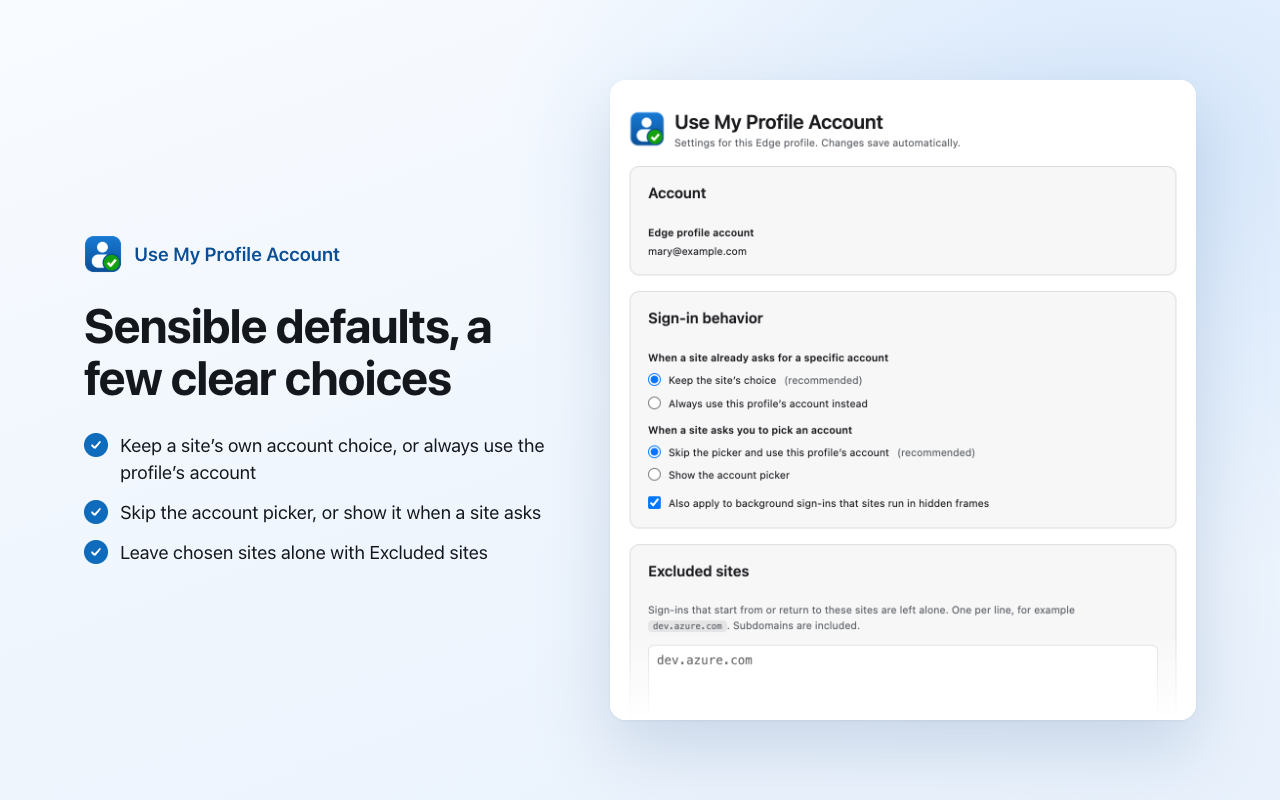
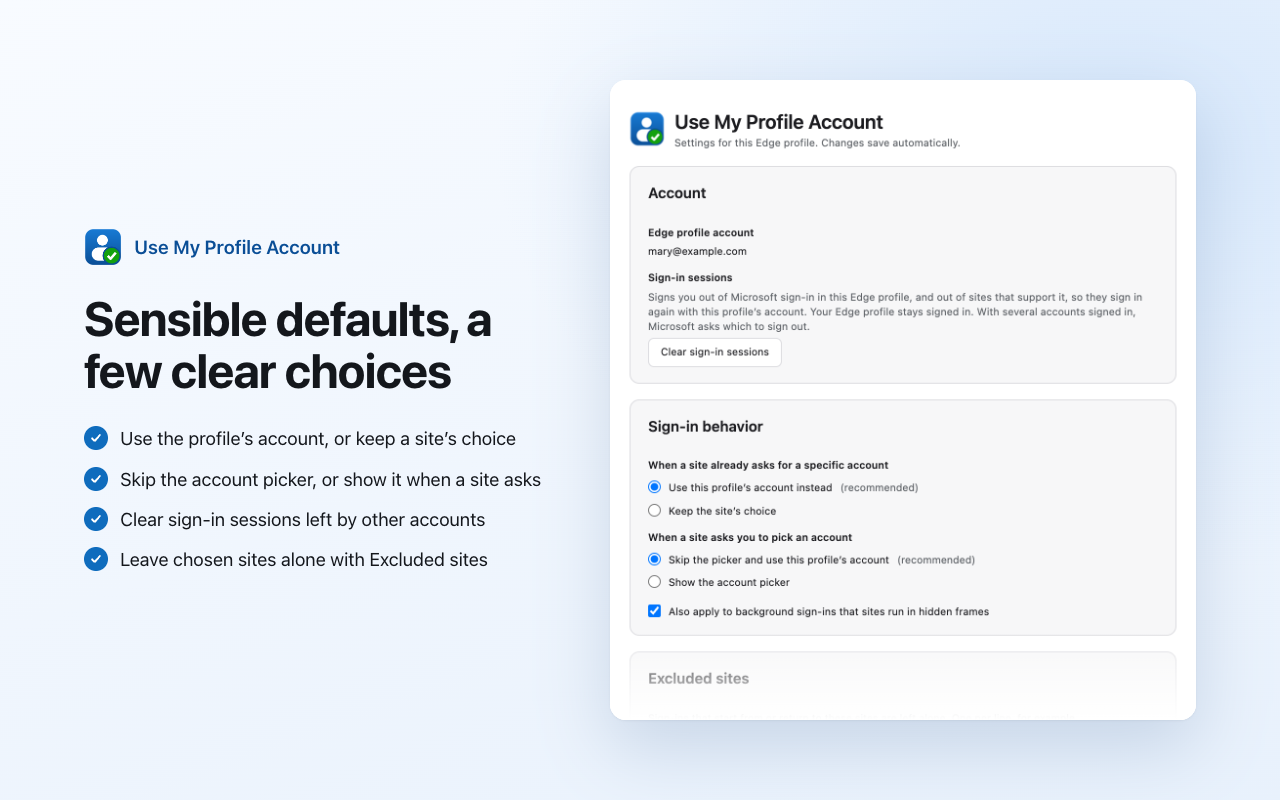
1.1.0: use the profile's account by default, Clear sign-in sessions
- Default "When a site already asks for a specific account" is now "Use this
  profile's account instead" (hintMode always), so a site signed in with
  another account switches back at its next sign-in. Hidden-frame renewals
  and sid/id_token_hint requests still keep the site's choice.
- Replace "Pause 1 hour" with "Clear sign-in sessions" in the popup, and add
  it to Settings. It opens Microsoft's sign-out page
  (/common/oauth2/v2.0/logout); no new permission.
- Edge settings mentioned on the Settings page are now links (opened with
  chrome.tabs.create; the Extensions link goes to this extension's details).
- Docs, policy schema, admin examples and store/README images updated.

diff --git a/tests/rules.test.js b/tests/rules.test.js
@@ -39,8 +39,11 @@ run('v1 tenant authorize gets login_hint', {}, V1, has(HINT));
 run('common endpoint', {}, 'https://login.microsoftonline.com/common/oauth2/v2.0/authorize?client_id=x', has(HINT));
 run('empty login_hint replaced in place (no duplicate)', {}, `${V2}&login_hint=&state=abc`,
   (u) => u === `${V2}&${HINT}&state=abc` && count(u, 'login_hint') === 1);
-run('existing hint kept', {}, `${V2}&login_hint=bob%40example.com`, 'same');
-run('existing username kept', {}, `${V2}&username=bob%40example.com`, 'same');
+check('default is to use the profile account', DEFAULTS.hintMode === 'always');
+run('default replaces a site hint for another account', {}, `${V2}&login_hint=bob%40example.com`,
+  (u) => u === `${V2}&${HINT}`);
+run('keep mode: existing hint kept', { hintMode: 'missing' }, `${V2}&login_hint=bob%40example.com`, 'same');
+run('keep mode: existing username kept', { hintMode: 'missing' }, `${V2}&username=bob%40example.com`, 'same');
 run('always mode replaces other hint', { hintMode: 'always' }, `${V2}&login_hint=bob%40example.com`,
   (u) => u.includes(HINT) && !u.includes('bob') && count(u, 'login_hint') === 1);
 run('always mode, already ours: no redirect', { hintMode: 'always' }, `${V2}&${HINT}`, 'same');
@@ -51,7 +54,7 @@ run('sid kept in always mode', { hintMode: 'always' }, `${V2}&sid=abc123`, 'same
 run('id_token_hint kept', {}, `${V2}&id_token_hint=eyJ0`, 'same');
 run('encoded login%5Fhint left alone', {}, `${V2}&login%5Fhint=`, 'same');
 run('encoded login%5Fhint left alone (always)', { hintMode: 'always' }, `${V2}&login%5fhint=bob`, 'same');
-run('keys are case-insensitive for the guard', {}, `${V2}&LOGIN_HINT=bob`, 'same');
+run('keep mode: keys are case-insensitive for the guard', { hintMode: 'missing' }, `${V2}&LOGIN_HINT=bob`, 'same');
 run('sign-up (prompt=create) left alone', {}, `${V2}&prompt=create`, 'same');
 run('prompt=login still hinted', {}, `${V2}&prompt=login`, has(HINT, 'prompt=login'));
 run('prompt=none (silent) hinted', {}, `${V2}&prompt=none`, has(HINT, 'prompt=none'));
@@ -62,7 +65,7 @@ run('select_account removed and hinted', {}, OWA,
   (u) => u === `https://login.microsoftonline.com/common/oauth2/v2.0/authorize?client_id=9199bf20&state=x&${HINT}`);
 run('select_account as last param', {}, `${V2}&prompt=select_account`, (u) => u === `${V2}&${HINT}`);
 run('select_account kept when set to show picker', { accountPicker: 'site' }, OWA, 'same');
-run('select_account with site hint kept', {}, `${OWA}&login_hint=bob%40example.com`, 'same');
+run('keep mode: select_account with site hint kept', { hintMode: 'missing' }, `${OWA}&login_hint=bob%40example.com`, 'same');
 run('select_account + empty hint', {}, `${OWA}&login_hint=`, (u) => !u.includes('prompt=') && count(u, 'login_hint') === 1 && u.includes(HINT));
 run('select_account in always mode', { hintMode: 'always' }, `${OWA}&login_hint=bob`, (u) => !u.includes('prompt=') && u.includes(HINT) && !u.includes('bob'));
 run('other prompt value untouched', {}, `${V2}&prompt=consent`, has(HINT, 'prompt=consent'));
@@ -111,7 +114,9 @@ run('always mode keeps an app username in hidden frames', { hintMode: 'always' }
 const SAML = 'https://login.microsoftonline.com/0c8f0000-aaaa-bbbb-cccc-000000000000/saml2';
 run('SAML redirect binding', {}, `${SAML}?SAMLRequest=fZJb&RelayState=x`, has(HINT, 'SAMLRequest=fZJb'));
 run('SAML POST binding gets query', {}, SAML, (u) => u === `${SAML}?${HINT}`, { method: 'post' });
-run('WS-Fed with hint kept', {}, `https://login.microsoftonline.com/common/wsfed?wa=wsignin1.0&login_hint=bob`, 'same');
+run('keep mode: WS-Fed with hint kept', { hintMode: 'missing' }, `https://login.microsoftonline.com/common/wsfed?wa=wsignin1.0&login_hint=bob`, 'same');
+run('default: WS-Fed hint replaced', {}, `https://login.microsoftonline.com/common/wsfed?wa=wsignin1.0&login_hint=bob`,
+  (u) => u.includes(HINT) && !u.includes('bob') && count(u, 'login_hint') === 1);
 
 run('other clouds untouched', {}, 'https://login.microsoftonline.us/common/oauth2/v2.0/authorize?client_id=x', 'same');
 
@@ -147,7 +152,7 @@ run('not excluded: longer TLD', EX, withRedirect('https://dev.azure.company/'), 
 }
 
 // --- Rule shape (an invalid rule rejects the whole update) ---
-for (const settings of [{}, { hintMode: 'always', accountPicker: 'site', includeFrames: false }, EX,
+for (const settings of [{}, { hintMode: 'missing', accountPicker: 'site', includeFrames: false }, { ...EX, hintMode: 'missing' },
   { ...EX, hintMode: 'always', accountPicker: 'site' }]) {
   const rules = rulesFor(settings);
   const ids = rules.map((r) => r.id);

diff --git a/src/options.html b/src/options.html
@@ -24,14 +24,19 @@
       <span class="label">Edge profile account</span>
       <span id="profileEmail">–</span>
     </div>
+    <div class="field">
+      <span class="label">Sign-in sessions</span>
+      <p class="muted">Signs you out of Microsoft sign-in in this Edge profile, and out of sites that support it, so they sign in again with this profile’s account. Your Edge profile stays signed in. With several accounts signed in, Microsoft asks which to sign out.</p>
+      <div><button id="clearSessions">Clear sign-in sessions</button></div>
+    </div>
   </section>
 
   <section class="card">
     <h2>Sign-in behavior</h2>
     <fieldset id="hintMode">
       <legend>When a site already asks for a specific account</legend>
-      <label class="choice"><input type="radio" name="hintMode" value="missing"> Keep the site’s choice <span class="muted">(recommended)</span></label>
-      <label class="choice"><input type="radio" name="hintMode" value="always"> Always use this profile’s account instead</label>
+      <label class="choice"><input type="radio" name="hintMode" value="always"> Use this profile’s account instead <span class="muted">(recommended)</span></label>
+      <label class="choice"><input type="radio" name="hintMode" value="missing"> Keep the site’s choice</label>
     </fieldset>
     <fieldset id="accountPicker">
       <legend>When a site asks you to pick an account</legend>
@@ -51,10 +56,10 @@
   <section class="card">
     <h2>Other settings that affect sign-in</h2>
     <ul class="tips">
-      <li><strong>Sign in to this Edge profile</strong> with your work or school account (Settings › Profiles). That’s the account this extension uses. It only chooses the account, so you may still be asked for a password or MFA.</li>
-      <li><strong>Which profile a site opens in.</strong> Automatic profile switching (Settings › Profiles), and <em>Profile preferences for sites</em> and <em>Default profile for external links</em> (Settings › Profiles › Profile preferences), can open a site in another profile. It then signs in with that profile’s account.</li>
+      <li><strong>Sign in to this Edge profile</strong> with your work or school account (<a href="edge://settings/profiles">Settings › Profiles</a>). That’s the account this extension uses. It only chooses the account, so you may still be asked for a password or MFA.</li>
+      <li><strong>Which profile a site opens in.</strong> Automatic profile switching (<a href="edge://settings/profiles">Settings › Profiles</a>), and <em>Profile preferences for sites</em> and <em>Default profile for external links</em> (<a href="edge://settings/profiles/multiProfileSettings">Settings › Profiles › Profile preferences</a>), can open a site in another profile. It then signs in with that profile’s account.</li>
       <li>You don’t need to add this account to Windows (Settings › Accounts › Access work or school) for this extension. Doing that registers this PC with the account’s organization and can enroll it in their device management.</li>
-      <li><strong>Site access</strong> (<code>edge://extensions</code> › Details) must allow Microsoft’s sign-in pages. The extension never runs in InPrivate windows.</li>
+      <li><strong>Site access</strong> (<a id="extensionDetails" href="edge://extensions">Extensions › Details</a>) must allow Microsoft’s sign-in pages. The extension never runs in InPrivate windows.</li>
     </ul>
   </section>
 </body>

diff --git a/src/popup.js b/src/popup.js
@@ -1,4 +1,4 @@
-import { describe } from './settings.js';
+import { describe, clearSignInSessions } from './settings.js';
 
 const $ = (id) => document.getElementById(id);
 let status = {};
@@ -15,19 +15,17 @@ async function render() {
   $('grant').hidden = status.state !== 'active' || status.hasAccess;
   $('enabled').checked = status.enabled ?? true;
   $('enabled').disabled = managed.includes('enabled');
-  $('pause').hidden = !status.allowPause || !['active', 'paused'].includes(status.state);
-  $('pauseHint').hidden = $('pause').hidden || paused;
-  for (const b of document.querySelectorAll('[data-minutes]')) b.hidden = paused;
+  const canPause = status.allowPause && ['active', 'paused'].includes(status.state);
+  $('pause').hidden = !canPause || paused;
+  $('pauseHint').hidden = !canPause || paused;
   $('resume').hidden = !paused;
   $('managed').hidden = !managed.length;
 }
 
 $('enabled').addEventListener('change', (e) => chrome.storage.local.set({ enabled: e.target.checked }));
-for (const button of document.querySelectorAll('[data-minutes]')) {
-  button.addEventListener('click', () =>
-    chrome.storage.local.set({ pausedUntil: Date.now() + Number(button.dataset.minutes) * 60_000 }));
-}
+$('pause').addEventListener('click', () => chrome.storage.local.set({ pausedUntil: Date.now() + 15 * 60_000 }));
 $('resume').addEventListener('click', () => chrome.storage.local.set({ pausedUntil: 0 }));
+$('clearSessions').addEventListener('click', () => clearSignInSessions().then(() => window.close()));
 $('grant').addEventListener('click', () => chrome.permissions.request({ origins: status.origins }));
 $('settings').addEventListener('click', (e) => {
   e.preventDefault();

diff --git a/src/options.js b/src/options.js
@@ -1,4 +1,4 @@
-import { loadSettings, cleanHosts } from './settings.js';
+import { loadSettings, cleanHosts, clearSignInSessions } from './settings.js';
 
 const $ = (id) => document.getElementById(id);
 const save = (values) => chrome.storage.local.set(values);
@@ -38,6 +38,17 @@ $('excludedSites').addEventListener('change', (e) => {
   $('sitesError').textContent = `Not a site name: ${invalid.join(', ')}`;
   save({ excludedSites: valid });
 });
+
+$('clearSessions').addEventListener('click', clearSignInSessions);
+
+// Pages can't open edge:// addresses from a link, so open them in a new tab.
+$('extensionDetails').href = `edge://extensions/?id=${chrome.runtime.id}`;
+for (const a of document.querySelectorAll('a[href^="edge:"]')) {
+  a.addEventListener('click', (e) => {
+    e.preventDefault();
+    chrome.tabs.create({ url: a.href });
+  });
+}
 
 // 'change' only fires when the list loses focus, so save a half-edited list if the tab is closed.
 addEventListener('pagehide', () => document.activeElement === $('excludedSites') &&

diff --git a/src/settings.js b/src/settings.js
@@ -4,11 +4,16 @@
 
 export const DEFAULTS = {
   enabled: true,
-  hintMode: 'missing',      // missing = only when the site didn't name an account; always = replace it
+  hintMode: 'always',       // always = use this profile's account even if the site named another; missing = keep the site's
   accountPicker: 'skip',    // skip = sign straight in; site = show the picker when the site asks for it
   includeFrames: true,      // also hidden-frame (silent) sign-ins
   excludedSites: [],
 };
+
+// Microsoft's sign-out page. It ends the Microsoft sign-in sessions in this Edge profile and signs out of sites
+// that support single sign-out. Edge's own sign-in to the profile isn't affected.
+export const SIGN_OUT_URL = 'https://login.microsoftonline.com/common/oauth2/v2.0/logout';
+export const clearSignInSessions = () => chrome.tabs.create({ url: SIGN_OUT_URL });
 
 // Only settable by policy.
 const POLICY_DEFAULTS = { allowPause: true, allowedDomains: [] };

diff --git a/src/popup.html b/src/popup.html
@@ -27,10 +27,10 @@
     <input id="enabled" type="checkbox" role="switch">
   </label>
 
-  <div id="pause" class="buttons" hidden>
-    <button data-minutes="15">Pause 15 min</button>
-    <button data-minutes="60">Pause 1 hour</button>
+  <div class="buttons">
+    <button id="pause" hidden>Pause 15 min</button>
     <button id="resume" class="primary" hidden>Resume now</button>
+    <button id="clearSessions" title="Signs you out of Microsoft sign-in in this profile, so sites sign in again with its account. Your Edge profile stays signed in.">Clear sign-in sessions</button>
   </div>
   <p id="pauseHint" class="muted small" hidden>Pause to sign in with a different account.</p>
 

diff --git a/README.md b/README.md
@@ -12,7 +12,7 @@ On an Entra-joined Windows 11 PC where bob@example.com signs in to Windows:
 Install the extension in every profile you want this in (a force-installed extension is in every profile). Each copy uses its own profile's account.
 
 <p align="center">
-  <img src="docs/images/popup.png" width="330" alt="The extension's popup: Signing in as mary@example.com, with an on/off switch and Pause buttons">
+  <img src="docs/images/popup.png" width="330" alt="The extension's popup: Signing in as mary@example.com, with an on/off switch, a Pause button and a Clear sign-in sessions button">
   &nbsp;
   <img src="docs/images/popup-dark.png" width="330" alt="The same popup in dark mode">
 </p>
@@ -25,7 +25,8 @@ Microsoft's sign-in service chooses the account from the `login_hint` parameter 
 
 The rules are careful about what they change:
 
-- **Kept as the site sent it:** requests where the site already chose an account (`login_hint`, `username`, `sid`, `id_token_hint`), sign-up requests (`prompt=create`), and anything that isn't the start of a sign-in.
+- **Replaced:** a `login_hint` or `username` that names a different account, so a site you signed in to with another account switches back to the profile's account at its next sign-in. Choose *Keep the site's choice* to keep them instead.
+- **Kept as the site sent it:** requests that name a session with `sid` or `id_token_hint` (Microsoft rejects `sid` combined with a hint), background renewals in hidden frames that already name an account (so a page never gets another account's tokens mid-session), sign-up requests (`prompt=create`), and anything that isn't the start of a sign-in.
 - **Filled in:** an *empty* `login_hint=` is filled in where it stands, never added a second time. The Azure, Entra and Intune portals send an empty one, which is what broke the older [UseMyCurrentAccount](https://github.com/novotnyllc/UseMyCurrentAccount) extension in 2025, and Microsoft rejects a duplicated hint.
 - **Covered:** OAuth / OpenID Connect (`/oauth2/authorize`, `/oauth2/v2.0/authorize`), SAML (`/saml2`, including POST binding) and WS-Federation (`/wsfed`) on `login.microsoftonline.com`, `login.microsoft.com`, `login.windows.net` and `sts.windows.net`.
 - **Work or school accounts only.** If a profile uses a personal Microsoft account (outlook.com, gmail.com, icloud.com and similar), the extension does nothing in that profile. To tell, it sends only the email's domain (as `user@<domain>`, without cookies) to Microsoft's `userrealm` lookup and remembers the answer for that domain. Until that check succeeds (for example while offline) it does nothing. If an administrator sets `allowedDomains`, those domains count as work domains and no lookup is made.
@@ -64,7 +65,8 @@ For security review, see [SECURITY.md](SECURITY.md). For data handling, see [PRI
 Click the toolbar icon to see which account is being used. From there you can:
 
 - **Turn it on or off** for this profile.
-- **Pause for 15 minutes or 1 hour** when you need to sign in with a different account. Apps that remember the account you picked keep using it. Other sites go back to the profile account the next time they sign you in, so add sites you always use with a different account (for example a customer's SharePoint) to **Excluded sites**.
+- **Pause for 15 minutes** when you need to sign in with a different account. Afterwards, sites go back to the profile account the next time they send you to Microsoft's sign-in page, so add sites you always use with a different account (for example a customer's SharePoint) to **Excluded sites**.
+- **Clear sign-in sessions** to sign out of Microsoft sign-in in this profile, and out of sites that support single sign-out, so they sign in again with the profile's account. Use it when a site is still signed in with another account. It opens Microsoft's sign-out page (`https://login.microsoftonline.com/common/oauth2/v2.0/logout`); if several accounts are signed in, Microsoft asks which one to sign out. Your Edge profile stays signed in. Sites that don't support single sign-out keep their own session until it ends or you sign out of them.
 - **Open Settings.**
 
 The icon shows the state:
@@ -77,7 +79,7 @@ The icon shows the state:
 
 | Setting | Default | What it does |
 |---|---|---|
-| When a site already asks for a specific account | Keep the site's choice | **Always use this profile's account** replaces a hint the site sent for a different account (background renewals in hidden frames keep the site's hint). |
+| When a site already asks for a specific account | Use this profile's account instead | Replaces a hint the site sent for a different account. Background renewals in hidden frames keep the site's hint. **Keep the site's choice** leaves every hint a site sends alone. |
 | When a site asks you to pick an account | Skip the picker | Some sites (for example Outlook on the web) always ask for the account picker. Choose **Show the account picker** to respect that. |
 | Background sign-ins in hidden frames | On | Also applies to the silent sign-ins apps run in the background. |
 | Excluded sites | none | Sign-ins that start from or return to these sites are left alone, for example `dev.azure.com`. |
@@ -89,11 +91,11 @@ Settings can be enforced for every profile on a device. Enforced settings are lo
 | Policy | Type | Values |
 |---|---|---|
 | `enabled` | boolean | Turns the extension on or off. Users can't change it. |
-| `hintMode` | string | `missing` (keep a site's choice) or `always` |
+| `hintMode` | string | `always` (use the profile's account instead; default) or `missing` (keep a site's choice) |
 | `accountPicker` | string | `skip` or `site` |
 | `includeFrames` | boolean | Include background sign-ins in hidden frames |
 | `excludedSites` | list of strings | Replaces the user's excluded sites |
-| `allowPause` | boolean | Show the Pause buttons (default `true`) |
+| `allowPause` | boolean | Show the Pause button (default `true`) |
 | `allowedDomains` | list of strings | Only act for accounts in these domains, for example `contoso.com` (subdomains included; `@contoso.com` also works). The extension then makes no account-type lookup. Entries that aren't valid domains match nothing, so a list with no valid entry turns the extension off. |
 
 Values live under

diff --git a/PRIVACY.md b/PRIVACY.md
@@ -13,6 +13,7 @@ Use My Profile Account is a Microsoft Edge extension. It has no servers, no anal
 
 - **Microsoft sign-in requests.** Your email is added as the sign-in hint (`login_hint`) to sign-in requests your browser is already making to `login.microsoftonline.com`, `login.microsoft.com`, `login.windows.net` and `sts.windows.net`. That includes background sign-ins in hidden frames unless they're turned off. Microsoft uses the hint to choose the account, as if you'd typed it.
 - **Account-type check.** To confirm the account is a work or school account, the extension sends only your email's domain, as `user@<your domain>`, to `https://login.microsoftonline.com/common/userrealm/`, without cookies. It asks again only when your account's domain changes. If your organization limits the extension to its own domains (`allowedDomains`), no check is made.
+- **Clear sign-in sessions** opens Microsoft's sign-out page (`https://login.microsoftonline.com/common/oauth2/v2.0/logout`) in a new tab, only when you click it. The extension adds nothing to that request.
 - Nothing is sent anywhere else. The extension doesn't read pages, cookies or what you type, and it doesn't see the sign-in requests themselves: Edge applies its rules.
 
 ## What's stored, and for how long
@@ -28,7 +29,7 @@ The extension never runs in InPrivate windows.
 ## Your choices
 
 - The popup and Settings page show which account is used.
-- You can turn the extension off, pause it or exclude sites from the popup and Settings page, or remove it on `edge://extensions`.
+- You can turn the extension off, pause it, exclude sites or clear sign-in sessions from the popup and Settings page, or remove it on `edge://extensions`.
 - If your organization manages the extension, it can turn it on for you and hide or lock these controls.
 
 ## Contact

diff --git a/store/README.md b/store/README.md
@@ -21,8 +21,8 @@ Use My Profile Account makes Microsoft 365, Azure, SharePoint and other Microsof
 
 It's built for people with more than one work account on the same PC. Give each account its own Edge profile, and each profile signs in as itself.
 
-• Adds your profile's account as the sign-in hint on Microsoft's sign-in pages, and leaves sites that already chose an account alone.
-• Skip or show the account picker, exclude sites, and pause for 15 minutes or an hour when you need another account.
+• Adds your profile's account as the sign-in hint on Microsoft's sign-in pages, even when a site asks for a different account (or keep the site's choice).
+• Clear old sign-in sessions with one click, skip or show the account picker, exclude sites, and pause for 15 minutes when you need another account.
 • Does nothing for personal Microsoft accounts and never runs in InPrivate windows.
 • No telemetry. The extension can't read pages; only your account's domain is checked to confirm it's a work or school account.
 • Administrators can enforce settings and limit it to their domains with Edge policy.

diff --git a/SECURITY.md b/SECURITY.md
@@ -12,6 +12,7 @@ Report it privately with **Report a vulnerability** on this repository's Securit
 - The extension never sees sign-in requests or page content. Edge applies its `declarativeNetRequest` rules, which only add `login_hint` to sign-in requests on `login.microsoftonline.com`, `login.microsoft.com`, `login.windows.net` and `sts.windows.net`. The rules can't change the host, path or any other site.
 - It fails closed. It removes its rules and leaves sign-ins alone when it's off or paused, when the profile has no account, when the account is personal or outside `allowedDomains`, when the work-or-school check hasn't succeeded, or when anything fails.
 - It never runs in InPrivate windows (`"incognito": "not_allowed"`).
+- **Clear sign-in sessions** only opens Microsoft's sign-out page in a new tab (`chrome.tabs.create`, no extra permission). The extension can't read or delete cookies.
 
 ## Permissions
 
